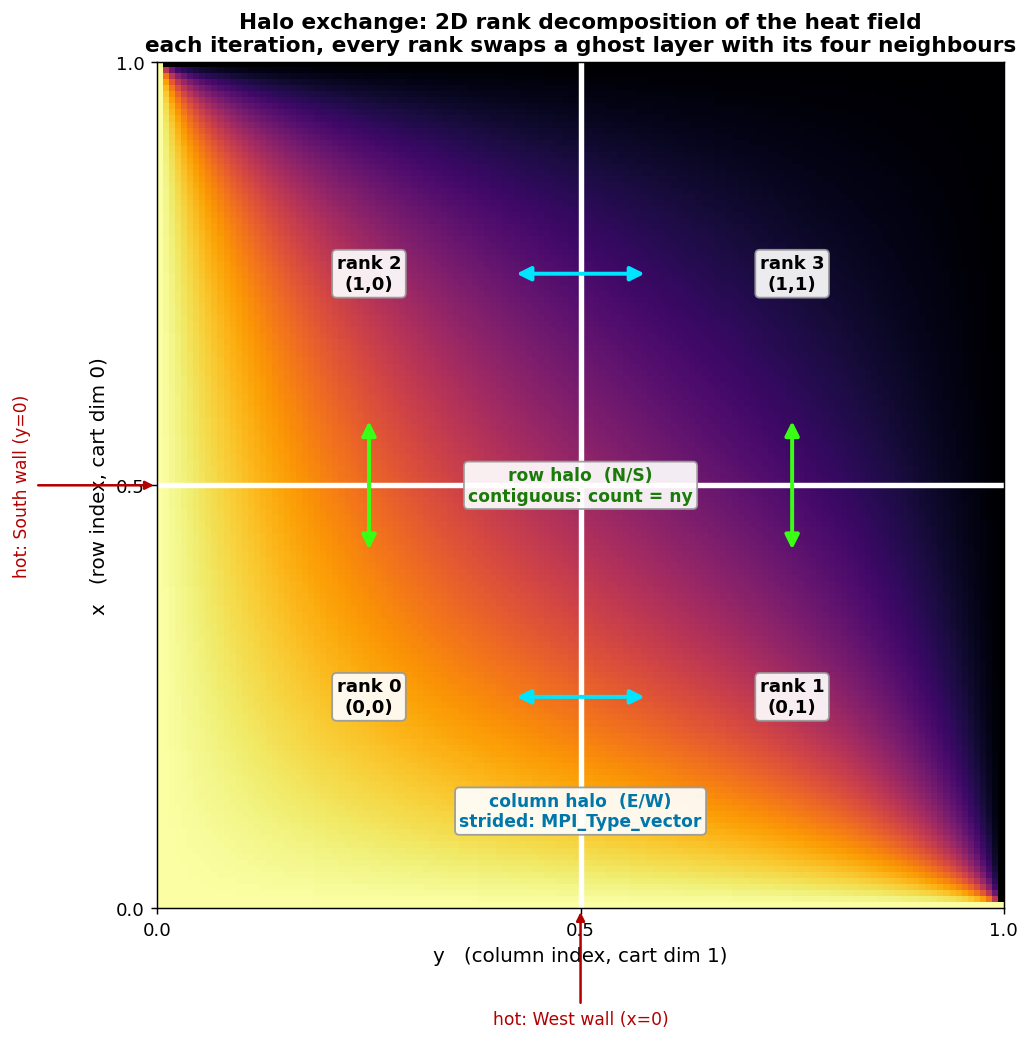
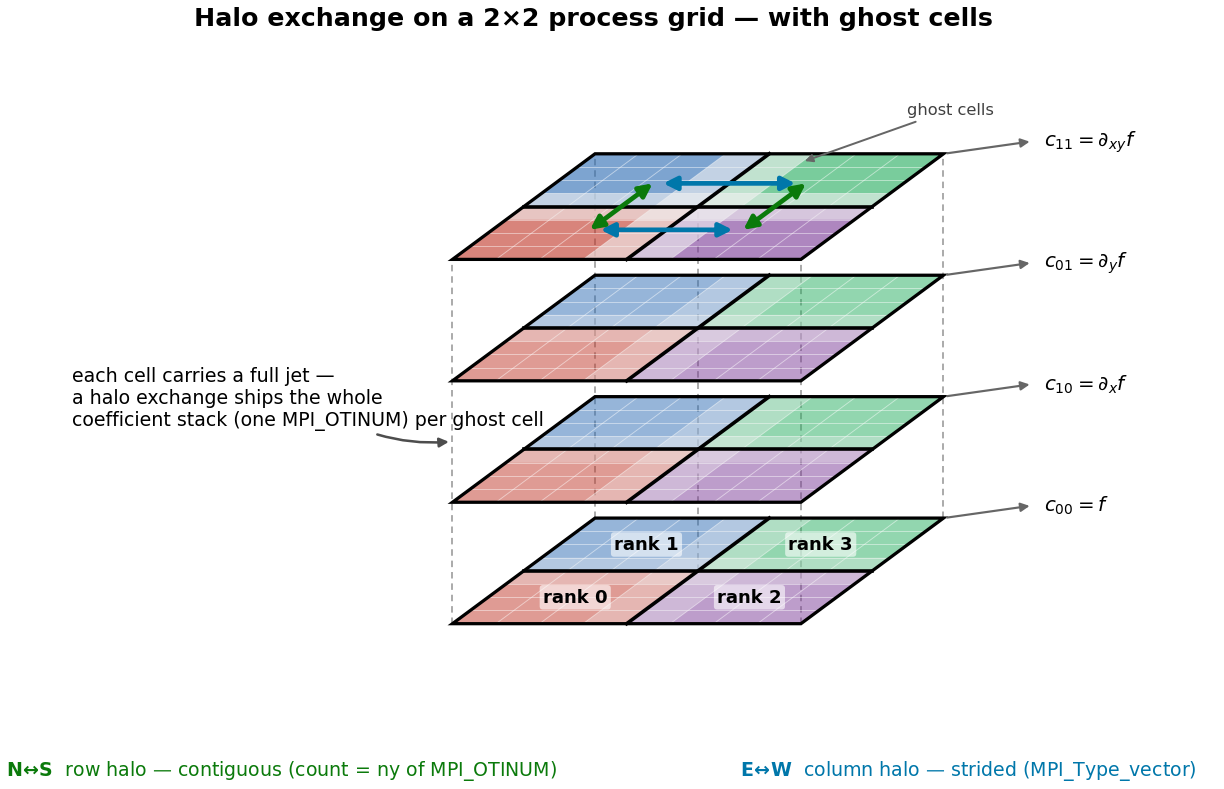
Docs: redesign the halo diagram as a stacked process-grid figure
Replace the flat heat-field halo schematic with an oblique stack that
matches the OTI jet figure (oti_jet_slices): the 2x2 process tiling is
extended into the jet's coefficient layers, so each grid cell is a jet
(a column through the stack) and a halo exchange ships that whole column
as one MPI_OTINUM per ghost cell.

- Top layer carries the four-neighbour exchange (straight arrows:
  green N<->S row halo = contiguous count of MPI_OTINUM; cyan E<->W
  column halo = strided MPI_Type_vector) plus the ghost-cell callout.
- Ghost-cell ring drawn faintly on every layer (stronger on top).
- Ranks labelled on the bottom layer in black for readability.
- halo.rst caption updated to describe the stacked figure.

Docs build clean under sphinx -W.

diff --git a/mpi_oti_halo/plot_diagram.py b/mpi_oti_halo/plot_diagram.py
@@ -1,18 +1,17 @@
 #!/usr/bin/env python3
 """Schematic for the Halo Exchange (Jacobi) tutorial.
 
-Shows what the program actually does: the steady-state heat field (Laplace,
-solved here with the same Jacobi iteration) is decomposed over a 2D Cartesian
-grid of ranks, and every iteration each rank swaps a one-cell ghost layer with
-its four neighbours. The two halo datatypes are labelled where they act:
+A 2D process decomposition (2x2) of the structured grid, extended into an oblique
+stack of layers -- the same idea as the OTI jet figure in
+mpi_oti_toy/plot_jet_slices.py. Every cell of the grid carries a *jet*, so the
+stack depth is the jet's coefficients; a halo exchange ships the whole column of
+coefficients for each ghost cell as one MPI_OTINUM.
 
-  * row halos (between x-neighbours, across the horizontal split): a full row is
-    CONTIGUOUS in memory -> count = ny of MPI_OTINUM.
-  * column halos (between y-neighbours, across the vertical split): a column is
-    STRIDED -> MPI_Type_vector over MPI_OTINUM.
-
-Axes: x (the cart dim-0 / row index) is vertical, y (dim-1 / column index) is
-horizontal, matching the contiguous-row / strided-column memory layout.
+The top layer is annotated with the four-neighbour exchange:
+  * N<->S (between vertically adjacent ranks): a row is CONTIGUOUS in memory
+    -> count = ny of MPI_OTINUM.
+  * E<->W (between horizontally adjacent ranks): a column is STRIDED
+    -> MPI_Type_vector over MPI_OTINUM.
 
 Usage: plot_diagram.py [out.png]
 """
@@ -23,78 +22,159 @@ import matplotlib
 
 matplotlib.use("Agg")
 import matplotlib.pyplot as plt
-from matplotlib.patches import FancyArrowPatch
+from matplotlib.patches import FancyArrowPatch, Polygon
+
+# oblique (cavalier) projection: local (u, v) at height z -> screen
+SX = 3.3
+DX, DY = 1.35, 1.0
+DZ = 1.15
+NLAYERS = 4
+CELLS = 8
+
+# process colours (2x2), matching the reference layout
+P = {(0, 0): "#C0392B",   # bottom-left  -> rank 0
+     (0, 1): "#2E6DB4",   # top-left     -> rank 1
+     (1, 0): "#7D3C98",   # bottom-right -> rank 2
+     (1, 1): "#27AE60"}   # top-right    -> rank 3
+COEFF_LABELS = [r"$c_{00}=f$", r"$c_{10}=\partial_x f$",
+                r"$c_{01}=\partial_y f$", r"$c_{11}=\partial_{xy} f$"]
 
 
-def solve_heat(n=140, iters=9000):
-    """Laplace on the unit square, West (x=0) and South (y=0) walls hot."""
-    u = np.zeros((n, n))
-    u[0, :] = 1.0    # x = 0  -> West wall (bottom, hot)
-    u[:, 0] = 1.0    # y = 0  -> South wall (left, hot)
-    for _ in range(iters):
-        u[1:-1, 1:-1] = 0.25 * (u[:-2, 1:-1] + u[2:, 1:-1] +
-                                u[1:-1, :-2] + u[1:-1, 2:])
-    return u
+NS_COLOR = "#0b7a0b"   # row halo (contiguous)
+EW_COLOR = "#0077aa"   # column halo (strided)
 
 
-def label(ax, x, y, text, color="black", fs=10.5, weight="normal"):
-    ax.text(x, y, text, fontsize=fs, color=color, fontweight=weight,
-            ha="center", va="center", zorder=6,
-            bbox=dict(boxstyle="round,pad=0.25", fc="white", ec="0.6",
-                      alpha=0.92))
+def corner(u, v, z, x0):
+    return (x0 + SX * u + DX * v, z + DY * v)
+
+
+def plane_polygon(z, x0):
+    return [corner(0, 0, z, x0), corner(1, 0, z, x0),
+            corner(1, 1, z, x0), corner(0, 1, z, x0)]
+
+
+def draw_ghost_bands(ax, z, x0, alpha):
+    """The one-cell ghost layer straddling the partition cross (exchanged each
+    iteration). Faint on every layer, a touch stronger on the labelled top."""
+    gc = 1.0 / CELLS
+    vb = [corner(0.5 - gc, 0, z, x0), corner(0.5 + gc, 0, z, x0),
+          corner(0.5 + gc, 1, z, x0), corner(0.5 - gc, 1, z, x0)]
+    hb = [corner(0, 0.5 - gc, z, x0), corner(1, 0.5 - gc, z, x0),
+          corner(1, 0.5 + gc, z, x0), corner(0, 0.5 + gc, z, x0)]
+    for band in (vb, hb):
+        ax.add_patch(Polygon(band, closed=True, facecolor="0.95", alpha=alpha,
+                             edgecolor="none", zorder=2.6))
+
+
+def draw_layer(ax, z, x0, top=False, labels=False):
+    # process quadrants
+    for (uh, vh), col in P.items():
+        u0, u1 = uh * 0.5, uh * 0.5 + 0.5
+        v0, v1 = vh * 0.5, vh * 0.5 + 0.5
+        quad = [corner(u0, v0, z, x0), corner(u1, v0, z, x0),
+                corner(u1, v1, z, x0), corner(u0, v1, z, x0)]
+        ax.add_patch(Polygon(quad, closed=True, facecolor=col,
+                             alpha=0.62 if top else 0.5, edgecolor="none",
+                             zorder=2))
+    # faint cell grid
+    for t in np.linspace(0, 1, CELLS + 1):
+        a0, a1 = corner(t, 0, z, x0), corner(t, 1, z, x0)
+        b0, b1 = corner(0, t, z, x0), corner(1, t, z, x0)
+        ax.plot([a0[0], a1[0]], [a0[1], a1[1]], color="white", lw=0.5,
+                alpha=0.5, zorder=2.5)
+        ax.plot([b0[0], b1[0]], [b0[1], b1[1]], color="white", lw=0.5,
+                alpha=0.5, zorder=2.5)
+    # bold process cross (the partition boundaries)
+    c0, c1 = corner(0.5, 0, z, x0), corner(0.5, 1, z, x0)
+    d0, d1 = corner(0, 0.5, z, x0), corner(1, 0.5, z, x0)
+    ax.plot([c0[0], c1[0]], [c0[1], c1[1]], color="black", lw=2.0, zorder=3)
+    ax.plot([d0[0], d1[0]], [d0[1], d1[1]], color="black", lw=2.0, zorder=3)
+    # ghost-cell ring on every layer (a touch stronger on the annotated top)
+    draw_ghost_bands(ax, z, x0, alpha=0.6 if top else 0.32)
+    # outline
+    ax.add_patch(Polygon(plane_polygon(z, x0), closed=True, fill=False,
+                         edgecolor="black", lw=1.8, zorder=3))
+
+    if labels:
+        names = {(0, 0): "rank 0", (0, 1): "rank 1", (1, 0): "rank 2",
+                 (1, 1): "rank 3"}
+        for (uh, vh), nm in names.items():
+            cx, cy = corner(uh * 0.5 + 0.25, vh * 0.5 + 0.25, z, x0)
+            ax.text(cx, cy, nm, fontsize=10, fontweight="bold", color="black",
+                    ha="center", va="center", zorder=6,
+                    bbox=dict(boxstyle="round,pad=0.18", fc="white", ec="none",
+                              alpha=0.6))
+    if top:
+        annotate_top(ax, z, x0)
+
+
+def annotate_top(ax, z, x0):
+    gc = 1.0 / CELLS
+    # E<->W exchange (column halo, strided): across u=0.5
+    for v in (0.28, 0.72):
+        a, b = corner(0.30, v, z, x0), corner(0.70, v, z, x0)
+        ax.add_patch(FancyArrowPatch(a, b, arrowstyle="<|-|>", mutation_scale=15,
+                                     lw=2.6, color=EW_COLOR, zorder=7))
+    # N<->S exchange (row halo, contiguous): across v=0.5
+    for u in (0.28, 0.72):
+        a, b = corner(u, 0.26, z, x0), corner(u, 0.74, z, x0)
+        ax.add_patch(FancyArrowPatch(a, b, arrowstyle="<|-|>", mutation_scale=15,
+                                     lw=2.6, color=NS_COLOR, zorder=7))
+
+    # one "ghost cells" callout
+    gx, gy = corner(0.5 + gc, 0.92, z, x0)
+    ax.annotate("ghost cells", xy=(gx, gy), xytext=(gx + 1.0, gy + 0.5),
+                fontsize=9, color="0.25", ha="left", va="center", zorder=8,
+                arrowprops=dict(arrowstyle="-|>", color="0.4", lw=1.1))
 
 
 def main(out_path="mpi_halo.png"):
-    u = solve_heat()
+    fig, ax = plt.subplots(figsize=(12.0, 6.6))
+    ax.set_aspect("equal")
+    ax.axis("off")
+    x0 = 0.0
+    top_z = (NLAYERS - 1) * DZ
 
-    fig, ax = plt.subplots(figsize=(8.4, 8.6))
-    # vertical axis = x (rows / cart dim 0), horizontal = y (cols / cart dim 1)
-    ax.imshow(u, origin="lower", extent=(0, 1, 0, 1), cmap="inferno",
-              aspect="equal")
-    ax.set_xlabel("y   (column index, cart dim 1)", fontsize=11)
-    ax.set_ylabel("x   (row index, cart dim 0)", fontsize=11)
-    ax.set_xticks([0, 0.5, 1])
-    ax.set_yticks([0, 0.5, 1])
+    # dashed projection lines at the footprint corners + the cross centre
+    for (u, v) in [(0, 0), (1, 0), (1, 1), (0, 1), (0.5, 0.5)]:
+        xb, yb = corner(u, v, 0.0, x0)
+        xt, yt = corner(u, v, top_z, x0)
+        ax.plot([xb, xt], [yb, yt], ls=(0, (4, 3)), color="0.6", lw=0.9,
+                zorder=1)
 
-    # ---- 2x2 decomposition lines -------------------------------------------
-    ax.axhline(0.5, color="white", lw=3.0)
-    ax.axvline(0.5, color="white", lw=3.0)
+    for k in range(NLAYERS):
+        draw_layer(ax, k * DZ, x0, top=(k == NLAYERS - 1), labels=(k == 0))
+        # coefficient label off the back-right corner of each layer
+        br = corner(1.0, 1.0, k * DZ, x0)
+        ax.annotate("", xy=(br[0] + 0.85, br[1] + 0.12), xytext=br, zorder=6,
+                    arrowprops=dict(arrowstyle="-|>", color="0.4", lw=1.2))
+        ax.text(br[0] + 0.95, br[1] + 0.12, COEFF_LABELS[k], fontsize=11,
+                ha="left", va="center")
 
-    # ---- rank tile labels (rank = coord0*2 + coord1) -----------------------
-    # coord0 = x-block (0 bottom, 1 top); coord1 = y-block (0 left, 1 right)
-    for (yc, xc, rk, co) in [(0.25, 0.25, 0, "(0,0)"), (0.75, 0.25, 1, "(0,1)"),
-                             (0.25, 0.75, 2, "(1,0)"), (0.75, 0.75, 3, "(1,1)")]:
-        label(ax, yc, xc, f"rank {rk}\n{co}", fs=10, weight="bold")
+    # exchange-direction legend (colours match the arrows)
+    fig.text(0.30, 0.075,
+             r"$\mathbf{N\!\leftrightarrow\!S}$  row halo — contiguous "
+             "(count = ny of MPI_OTINUM)", fontsize=10.5, ha="center",
+             color=NS_COLOR)
+    fig.text(0.74, 0.075,
+             r"$\mathbf{E\!\leftrightarrow\!W}$  column halo — strided "
+             "(MPI_Type_vector)", fontsize=10.5, ha="center", color=EW_COLOR)
 
-    # ---- row halos: contiguous, between x-neighbours (cross x=0.5) ----------
-    for yc in (0.25, 0.75):
-        ax.add_patch(FancyArrowPatch((yc, 0.42), (yc, 0.58), arrowstyle="<|-|>",
-                                     mutation_scale=16, lw=2.2, color="#39FF14",
-                                     zorder=5))
-    label(ax, 0.5, 0.50, "row halo  (N/S)\ncontiguous: count = ny",
-          color="#1a7a0a", fs=9.5, weight="bold")
+    # the unifying note: stack depth = the jet
+    bx, by = corner(0.0, 0.0, 0.0, x0)
+    ax.annotate("each cell carries a full jet —\na halo exchange ships the whole\n"
+                "coefficient stack (one MPI_OTINUM) per ghost cell",
+                xy=(corner(0.0, 0.0, top_z, x0)[0], corner(0.0, 0.0, top_z / 2, x0)[1]),
+                xytext=(bx - 3.6, by + top_z * 0.62), fontsize=10.5, ha="left",
+                va="center",
+                arrowprops=dict(arrowstyle="-|>", color="0.3", lw=1.4,
+                                connectionstyle="arc3,rad=0.2"))
 
-    # ---- column halos: strided, between y-neighbours (cross y=0.5) ----------
-    for xc in (0.25, 0.75):
-        ax.add_patch(FancyArrowPatch((0.42, xc), (0.58, xc), arrowstyle="<|-|>",
-                                     mutation_scale=16, lw=2.2, color="#00E5FF",
-                                     zorder=5))
-    label(ax, 0.5, 0.115, "column halo  (E/W)\nstrided: MPI_Type_vector",
-          color="#0077aa", fs=9.5, weight="bold")
-
-    # ---- hot wall annotations ----------------------------------------------
-    ax.annotate("hot: West wall (x=0)", xy=(0.5, 0.0), xytext=(0.5, -0.12),
-                ha="center", va="top", fontsize=9.5, color="#b30000",
-                arrowprops=dict(arrowstyle="-|>", color="#b30000", lw=1.4))
-    ax.annotate("hot: South wall (y=0)", xy=(0.0, 0.5), xytext=(-0.16, 0.5),
-                ha="center", va="center", rotation=90, fontsize=9.5,
-                color="#b30000",
-                arrowprops=dict(arrowstyle="-|>", color="#b30000", lw=1.4))
-
-    ax.set_title("Halo exchange: 2D rank decomposition of the heat field\n"
-                 "each iteration, every rank swaps a ghost layer with its four "
-                 "neighbours", fontsize=12, fontweight="bold")
-    fig.savefig(out_path, dpi=130, bbox_inches="tight")
+    ax.set_xlim(corner(0, 0, 0, x0)[0] - 4.2, corner(1, 1, 0, x0)[0] + 2.6)
+    ax.set_ylim(-1.0, top_z + DY + 0.5)
+    fig.text(0.5, 0.95, "Halo exchange on a 2×2 process grid — with ghost cells",
+             fontsize=14, fontweight="bold", ha="center")
+    fig.savefig(out_path, dpi=130, bbox_inches="tight", pad_inches=0.05)
     print("wrote", out_path)
 
 

diff --git a/docs/tutorials/mpi/converting/halo.rst b/docs/tutorials/mpi/converting/halo.rst
@@ -19,17 +19,19 @@ distributed over a 2D Cartesian grid of ranks. The source is
 ``mpi_oti_halo/main.cpp`` at the repository root.
 
 .. figure:: ../../../_static/diagrams/mpi_halo.png
-   :alt: Heat field split into four rank tiles with row and column halo exchanges
+   :alt: 2x2 process decomposition stacked into the jet's coefficient layers
    :width: 95%
 
-   The heat field decomposed over a 2×2 rank grid. Each iteration every rank
-   swaps a one-cell ghost layer with its four neighbours. The two exchange
-   directions need different datatypes: a **row halo** between vertically
-   adjacent ranks (green) is contiguous in memory, so it ships as ``count = ny``
-   of ``MPI_OTINUM``; a **column halo** between horizontally adjacent ranks
-   (cyan) is strided, so it needs ``MPI_Type_vector`` over the jet element. With
-   ``x`` (the row index) vertical, a row is contiguous and a column is strided --
-   exactly the memory layout described below.
+   The 2×2 process decomposition, extended into the jet's coefficient layers
+   (the same oblique stack as the OTI jet figure in :doc:`gather`). Each rank
+   owns the *same* tile on every layer, so a grid cell is a full **jet** -- a
+   vertical column through the stack -- and a halo exchange ships that whole
+   column as one ``MPI_OTINUM`` per ghost cell. Each iteration every rank swaps a
+   one-cell ghost layer (grey) with its four neighbours: a **row halo** between
+   vertically adjacent ranks (green, N↔S) is contiguous, so it ships as
+   ``count = ny`` of ``MPI_OTINUM``; a **column halo** between horizontally
+   adjacent ranks (cyan, E↔W) is strided, so it needs ``MPI_Type_vector`` over
+   the jet element.
 
 The OTI Angle: Sensitivities For Free
 -------------------------------------